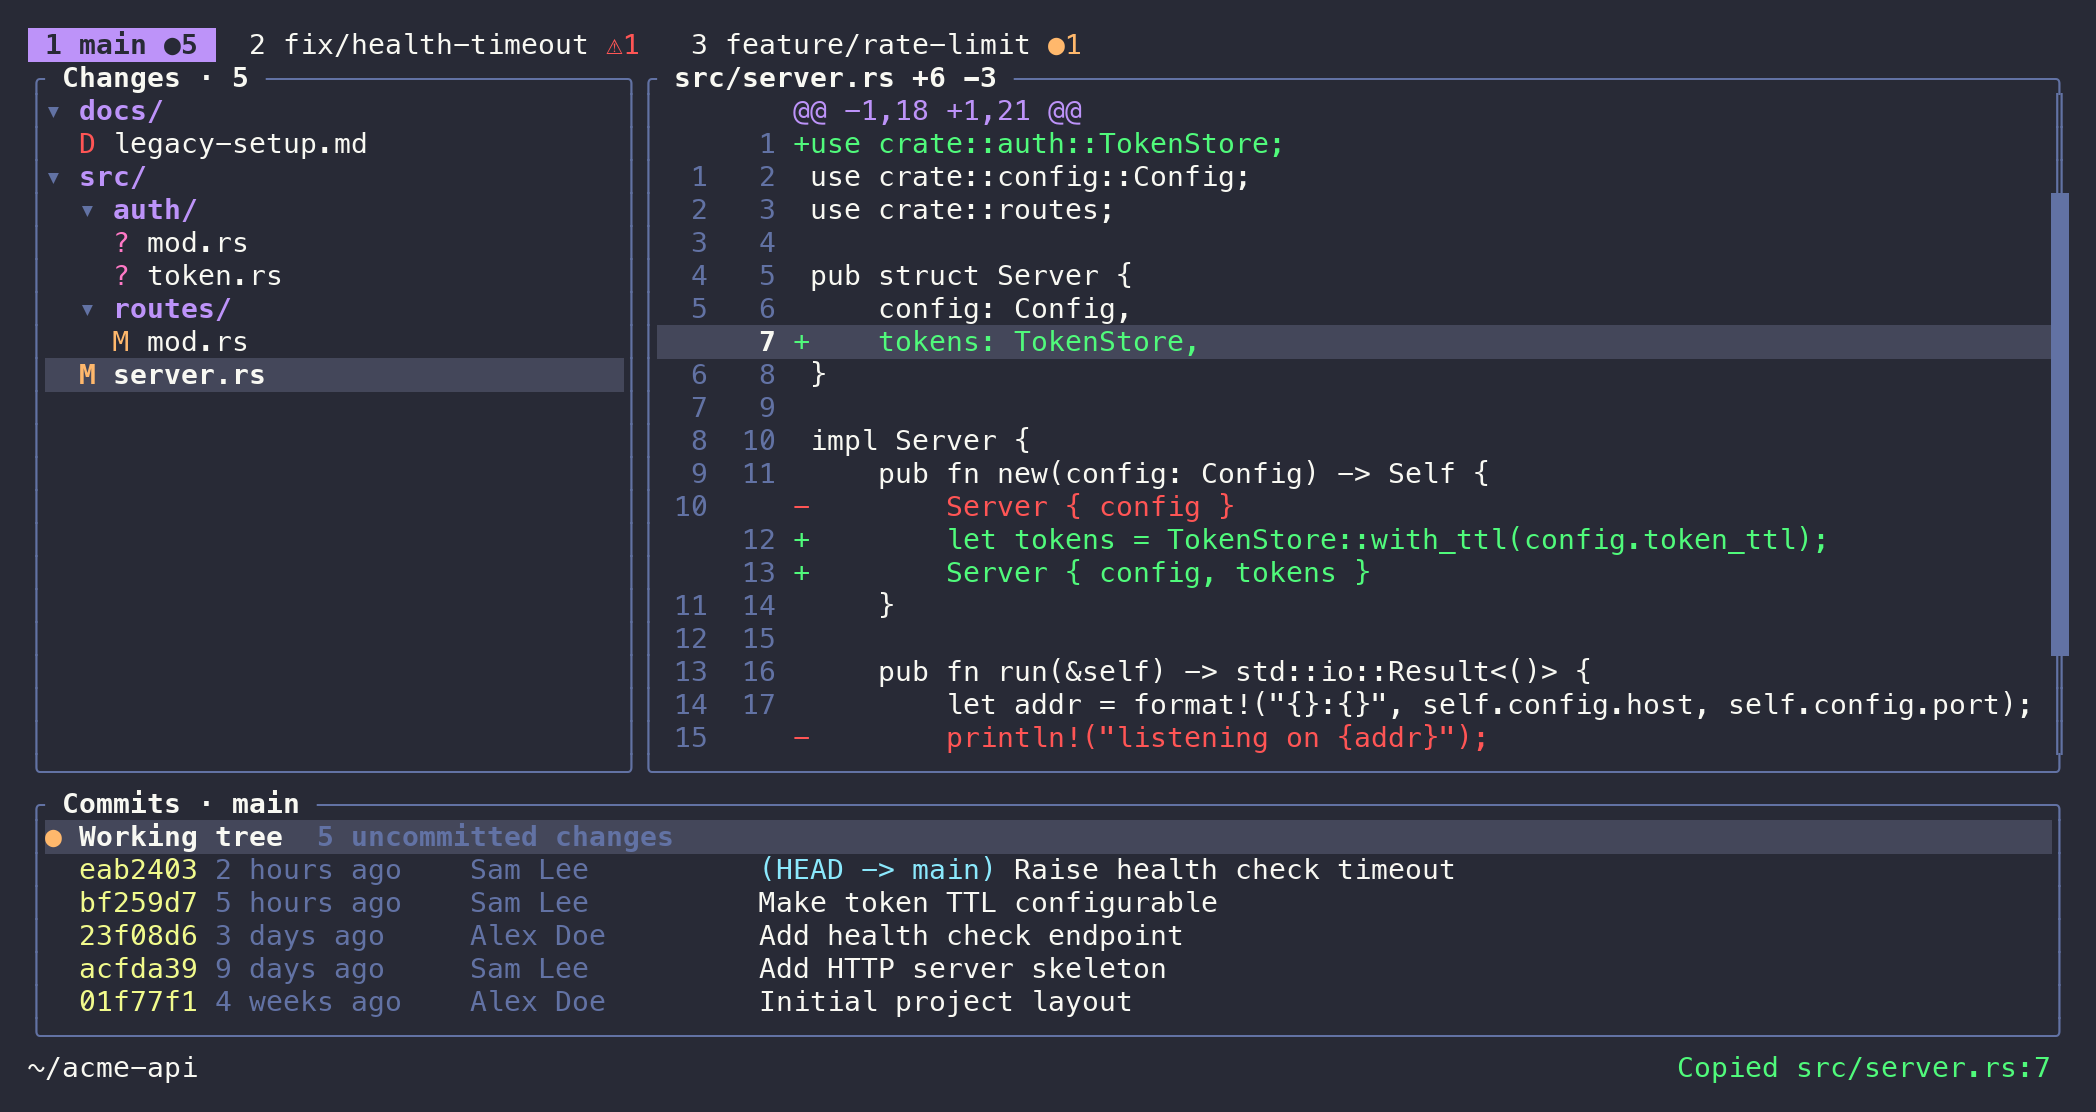
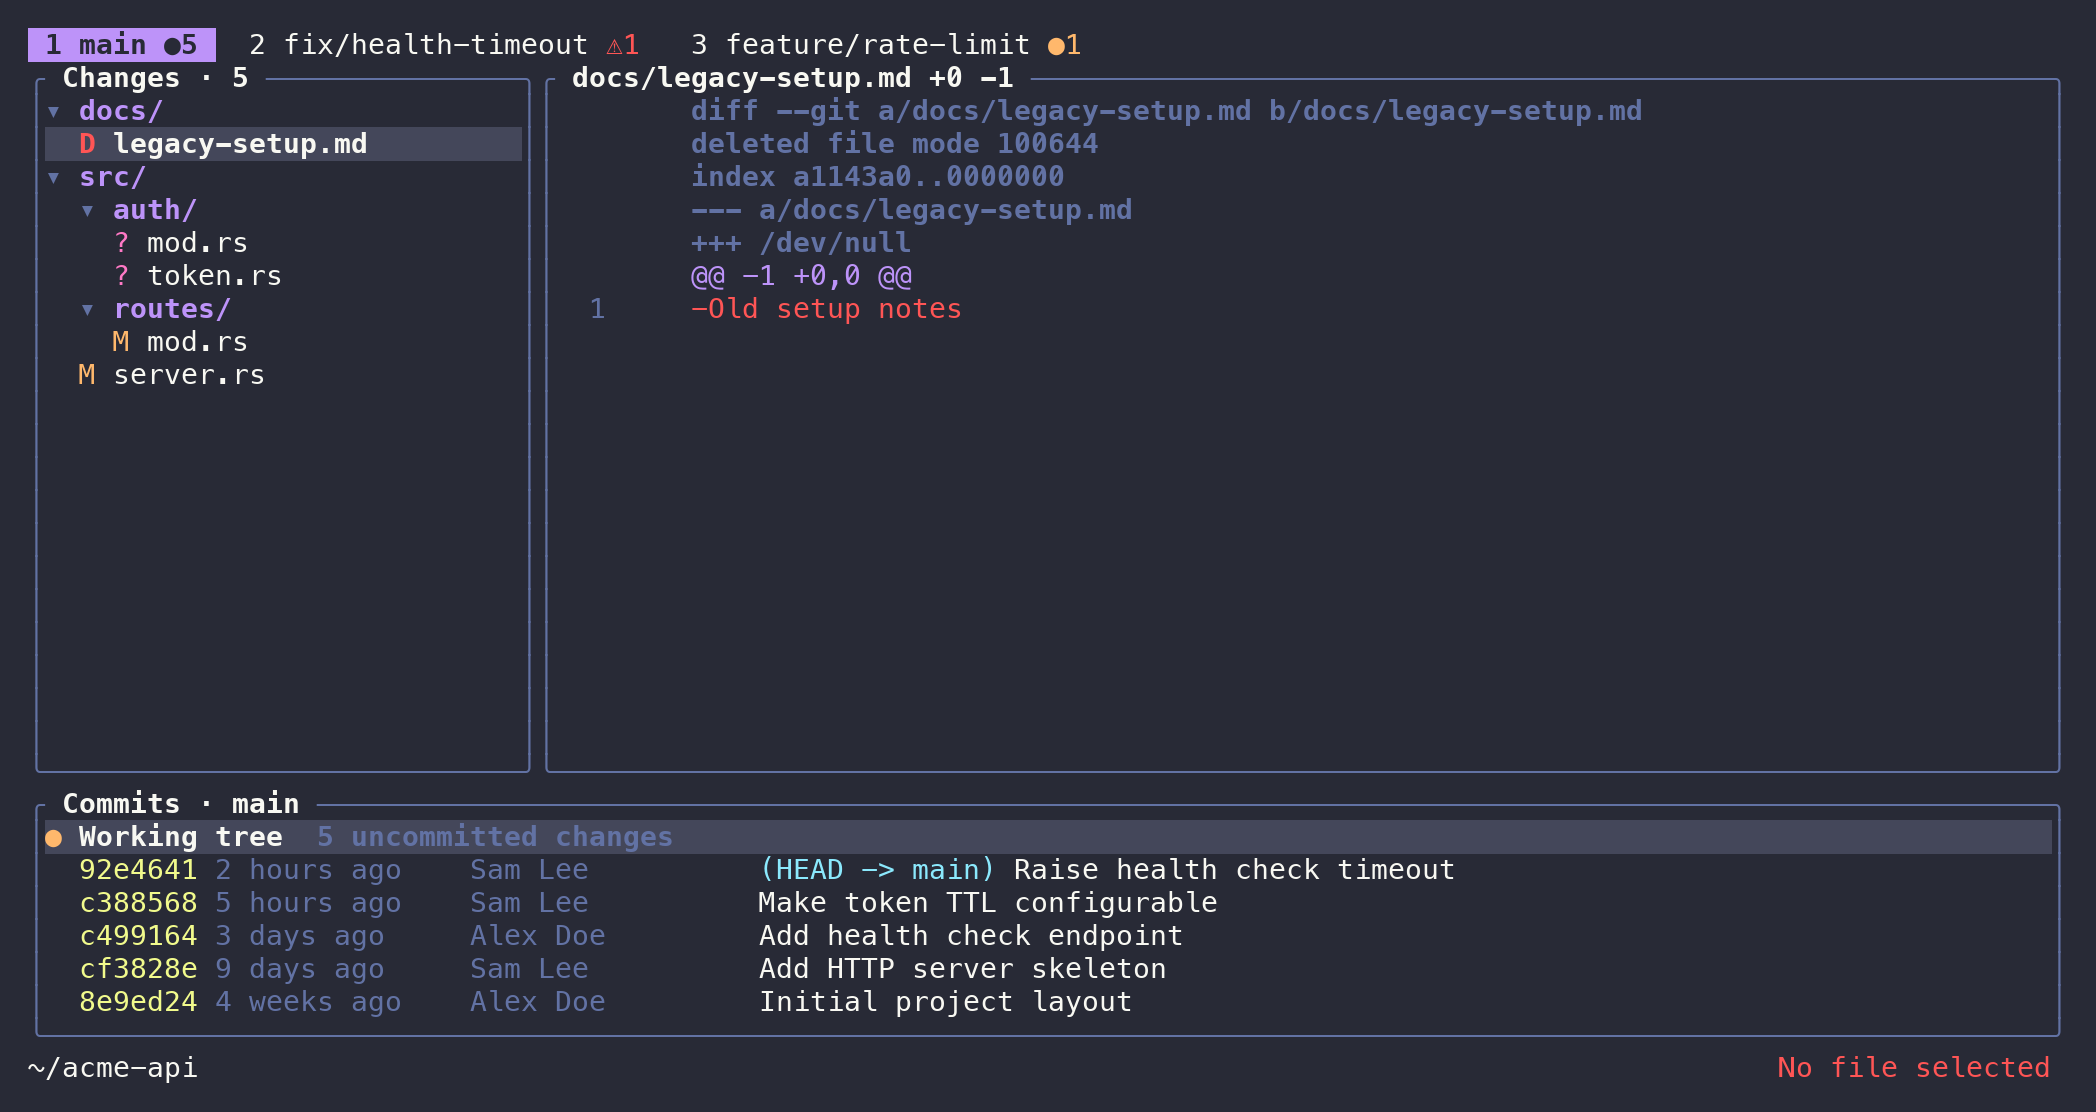
feat: adjust panel scaling with width breakpoints
File panel is 20 cols below 100 width, 30 cols from 100 to 119, and
25/75 proportional with the diff panel from 120 up.

diff --git a/src/ui.rs b/src/ui.rs
@@ -16,6 +16,22 @@ use unicode_width::UnicodeWidthChar;
 
 const MIN_WIDTH: u16 = 40;
 const MIN_HEIGHT: u16 = 12;
+const TREE_MIN_WIDTH: u16 = 20;
+const TREE_MID_WIDTH: u16 = 30;
+const MID_BREAKPOINT: u16 = 100;
+const WIDE_BREAKPOINT: u16 = 120;
+
+/// The file panel is pinned to a fixed width on narrow and medium terminals, with the diff taking
+/// the rest. From `WIDE_BREAKPOINT` on both panels scale proportionally.
+fn panel_constraints(width: u16) -> [Constraint; 2] {
+    if width < MID_BREAKPOINT {
+        [Constraint::Length(TREE_MIN_WIDTH), Constraint::Min(0)]
+    } else if width < WIDE_BREAKPOINT {
+        [Constraint::Length(TREE_MID_WIDTH), Constraint::Min(0)]
+    } else {
+        [Constraint::Percentage(25), Constraint::Percentage(75)]
+    }
+}
 
 pub fn draw(f: &mut Frame, app: &mut App) {
     let area = f.area();
@@ -37,8 +53,7 @@ pub fn draw(f: &mut Frame, app: &mut App) {
         Constraint::Length(1),
     ])
     .areas(area);
-    let [tree, diff] =
-        Layout::horizontal([Constraint::Percentage(30), Constraint::Percentage(70)]).areas(main);
+    let [tree, diff] = Layout::horizontal(panel_constraints(main.width)).areas(main);
 
     draw_tabs(f, app, tabs);
     draw_tree(f, app, tree);
@@ -682,6 +697,21 @@ fn draw_help(f: &mut Frame, app: &mut App, area: Rect) {
 #[cfg(test)]
 mod tests {
     use super::*;
+
+    #[test]
+    fn panel_split() {
+        let split = |w| {
+            let [tree, diff] =
+                Layout::horizontal(panel_constraints(w)).areas(Rect::new(0, 0, w, 10));
+            (tree.width, diff.width)
+        };
+        assert_eq!(split(40), (20, 20));
+        assert_eq!(split(99), (20, 79));
+        assert_eq!(split(100), (30, 70));
+        assert_eq!(split(119), (30, 89));
+        assert_eq!(split(120), (30, 90));
+        assert_eq!(split(200), (50, 150));
+    }
 
     #[test]
     fn shortens_from_left() {
